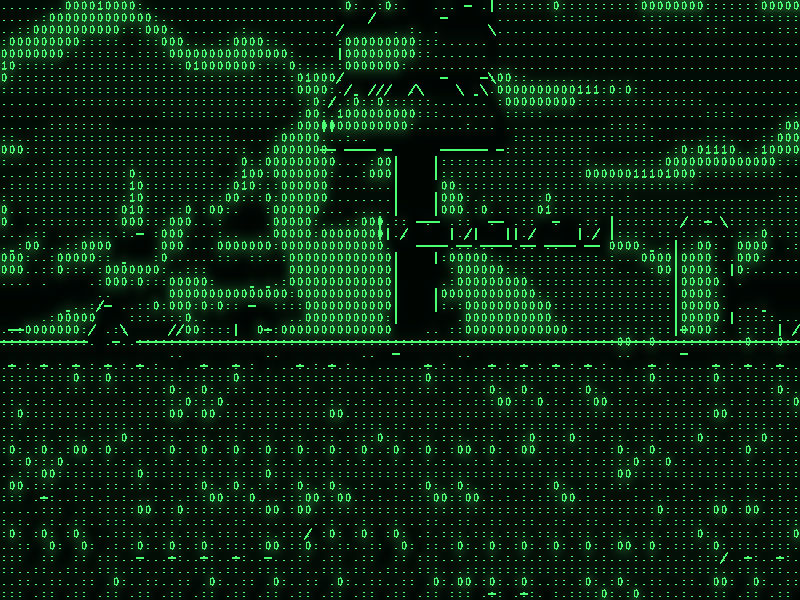
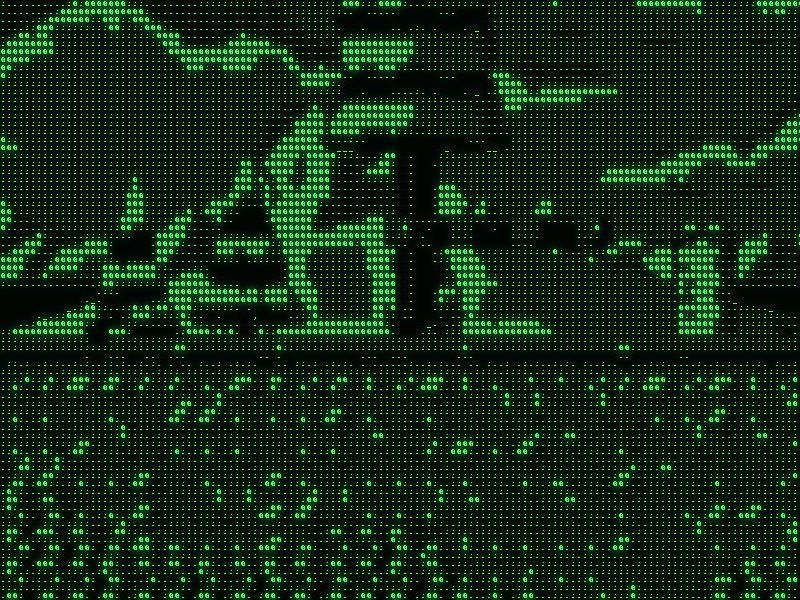
feat: retune the nine included styles for dark 3D and bright 2D games: automatic exposure, 6x8 cells, sensitive contours (detail at depth, step 4)

diff --git a/presets/README.md b/presets/README.md
@@ -10,15 +10,15 @@ dark-paper styles.
 
 | Config | Style | Cell size | Preview |
 | --- | --- | --- | --- |
-| [art-comic.conf](art-comic.conf) | Bold scene-colored inks over a vivid watercolor wash. | 8×12 | [Image](../docs/presets/art-comic.png) |
-| [art-sepia.conf](art-sepia.conf) | Sepia pen etching on cream paper with a soft ink bleed. | 7×11 | [Image](../docs/presets/art-sepia.png) |
-| [art-newsprint.conf](art-newsprint.conf) | Black ink, warm white paper, letter shading and ASCII outline silhouettes. | 8×12 | [Image](../docs/presets/art-newsprint.png) |
-| [art-chalk.conf](art-chalk.conf) | Chalk drawing on a dark green board. | 8×12 | [Image](../docs/presets/art-chalk.png) |
-| [art-ink-edges.conf](art-ink-edges.conf) | Crisp white letters and line art on black; automatic exposure for dark and bright games. | 8×12 | [Image](../docs/presets/art-ink-edges.png) |
+| [art-comic.conf](art-comic.conf) | Bold scene-colored inks over a vivid watercolor wash. | 6×8 | [Image](../docs/presets/art-comic.png) |
+| [art-sepia.conf](art-sepia.conf) | Sepia pen etching on cream paper with a soft ink bleed. | 6×8 | [Image](../docs/presets/art-sepia.png) |
+| [art-newsprint.conf](art-newsprint.conf) | Black ink, warm white paper, letter shading and ASCII outline silhouettes. | 6×8 | [Image](../docs/presets/art-newsprint.png) |
+| [art-chalk.conf](art-chalk.conf) | Chalk drawing on a dark green board. | 6×8 | [Image](../docs/presets/art-chalk.png) |
+| [art-ink-edges.conf](art-ink-edges.conf) | Crisp white letters and line art on black. | 6×8 | [Image](../docs/presets/art-ink-edges.png) |
 | [art-blueprint.conf](art-blueprint.conf) | Cyan directional outlines on navy paper, with surface fill disabled. | 6×10 | [Image](../docs/presets/art-blueprint.png) |
-| [art-midnight.conf](art-midnight.conf) | Classic terminal ASCII in saturated scene colors on a near-black sky. | 7×11 | [Image](../docs/presets/art-midnight.png) |
-| [art-crt.conf](art-crt.conf) | Amber CRT phosphor letters with a warm glow. | 7×12 | [Image](../docs/presets/art-crt.png) |
-| [art-digital-rain.conf](art-digital-rain.conf) | Glowing green binary digits on black. | 8×12 | [Image](../docs/presets/art-digital-rain.png) |
+| [art-midnight.conf](art-midnight.conf) | Classic terminal ASCII in saturated scene colors on a near-black sky. | 6×8 | [Image](../docs/presets/art-midnight.png) |
+| [art-crt.conf](art-crt.conf) | Amber CRT phosphor letters with a warm glow. | 6×8 | [Image](../docs/presets/art-crt.png) |
+| [art-digital-rain.conf](art-digital-rain.conf) | Glowing green binary digits on black. | 6×8 | [Image](../docs/presets/art-digital-rain.png) |
 
 ![Nine styles rendered from the SuperTux frame](../docs/presets/overview.png)
 
@@ -26,10 +26,16 @@ These are GPU previews of the same [captured frame](../docs/illustration-origina
 not live gameplay tests, rendered with **Local contrast** at its default of 0.5
 (set `local_contrast=0` for the earlier look). Ink & Edges is shown on a [darkened version](../docs/presets/dark-scene.png)
 of that frame (brightness, saturation and gamma reduced, plus a vignette), a
-synthetic stand-in for a dark game. Its **Auto exposure** lifts such scenes and
-tones bright ones down, so the same style works on both. Dark-paper styles (Chalk, Blueprint, Midnight, CRT,
-Digital rain) use low exposure or sparse ramps so a bright scene does not fill
-the screen with characters; raise **Exposure** for darker games.
+synthetic stand-in for a dark game.
+
+Every style uses **Auto exposure**, which lifts dark scenes and tones bright
+ones down, small 6×8 cells for detail, and sensitive contours, so the same
+style works on a bright 2D game and a dark 3D one (they were tuned on SuperTux
+and on ELDEN RING). The dark-paper styles (Chalk, Ink & Edges, Blueprint,
+Midnight, CRT, Digital rain) suit dark 3D games best. The light-paper styles
+(Comic, Sepia, Newsprint) are at their best in bright games; in a dark scene
+most cells take ink and the drawing turns dense. For larger, easier-to-read
+characters, raise the cell size in the editor.
 
 ## Choose directly in the overlay
 

diff --git a/docs/implementation/README.md b/docs/implementation/README.md
@@ -345,6 +345,42 @@ Verification: both presets built, 12/12 CTest tests each, the format check,
 and the smoke's overlay, editor and oracle phases passed on Release. Not
 verified: live in the game (the user's), GPU cost, Linux.
 
+**Step 4, the included styles retuned for 2D and 3D (2026-10-22).** The user
+found that only their own tuned copy of Digital rain looked really good on
+ELDEN RING, and asked for included styles that look good in 3D and 2D, show
+detail, and read as ASCII. A contact sheet of the nine styles on two ELDEN
+RING frames and the SuperTux frame showed why: the styles had been tuned on
+one bright SuperTux frame with fixed exposure, so in a dark 3D game the
+dark-paper ones (Chalk, Blueprint, Midnight, CRT, Digital rain) came out
+nearly black and the light-paper ones washed out. The user's copy works by a
+strong exposure (4) with low contrast (0.54), 6×6 cells and more sensitive
+contours (DoG sigma 1.1, threshold 0.05, votes 0.45, edge strength 1,
+threshold 0.35); its fixed exposure would blow out a bright game, and with
+automatic exposure 1 and a base exposure of 1.5 the same copy looked nearly
+the same on ELDEN RING and kept SuperTux readable.
+
+That recipe now applies to all nine: automatic exposure 1, 6×8 cells (close to
+the user's 6×6 detail while letting characters read; Blueprint, outlines
+only, keeps 6×10), the user's contour settings, gamma 0.9 for the dark-paper
+styles with base exposure 1.5 and contrast 0.6 (Ink & Edges 1.2 and 0.8;
+Chalk 1.6 and 0.8 with a ramp of fewer blanks, `"  .,:;-~=+*#"`, and glow
+0.5), and for the light-paper styles base exposure 1.1, contrast 1.4, gamma
+1 (Comic with less scene color in its paper, 0.15, and heavier glyphs; Sepia
+with darker ink, 0.2/0.11/0.05). Blueprint keeps more sensitive contours
+(threshold 0.015, votes 0.15, edge threshold 0.45), since contours are all it
+draws. Each style keeps its palette, characters and polarity. Judged on
+full-size crops of both games over three rounds: Digital rain, Ink & Edges,
+CRT and Midnight read as ASCII in both; Blueprint draws outlines in both;
+Newsprint is strong but bright in the dark game; the light-paper styles
+remain best in bright games (in a dark scene most cells take ink), which the
+gallery now says, pointing dark 3D games to the dark-paper styles.
+
+Gallery and overview re-rendered with the same frames and font (Hack 3.003
+Bold); the table lists the new cell sizes. Verification: both presets built,
+12/12 CTest tests each, the format check, and the smoke's overlay, editor and
+oracle phases passed on Release. Not verified: the styles live in either game
+by the user, and other games.
+
 ### Windows distribution (requested 2026-10-22)
 
 Today only people who build from source can use GlyphShift. The plan, waiting
